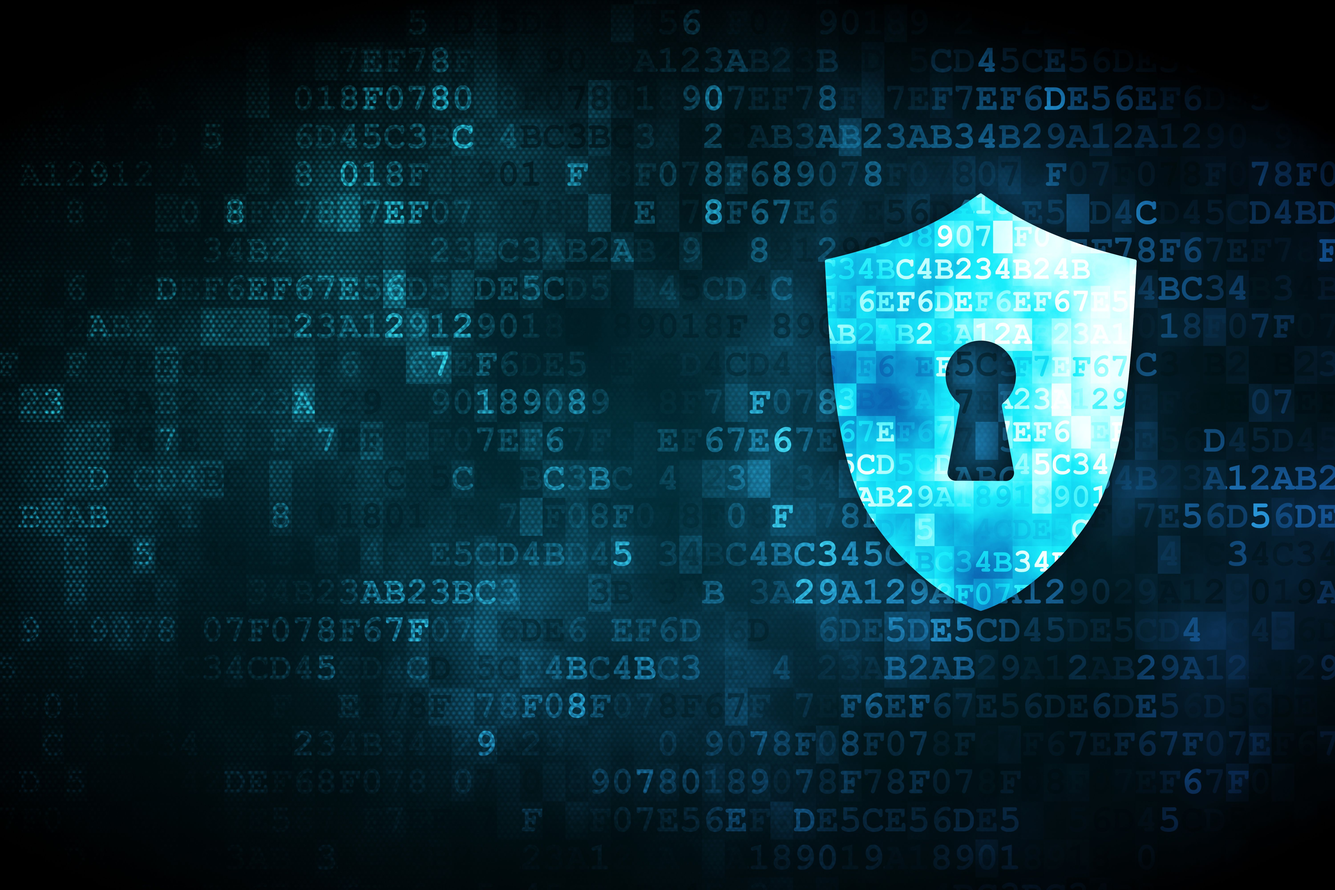
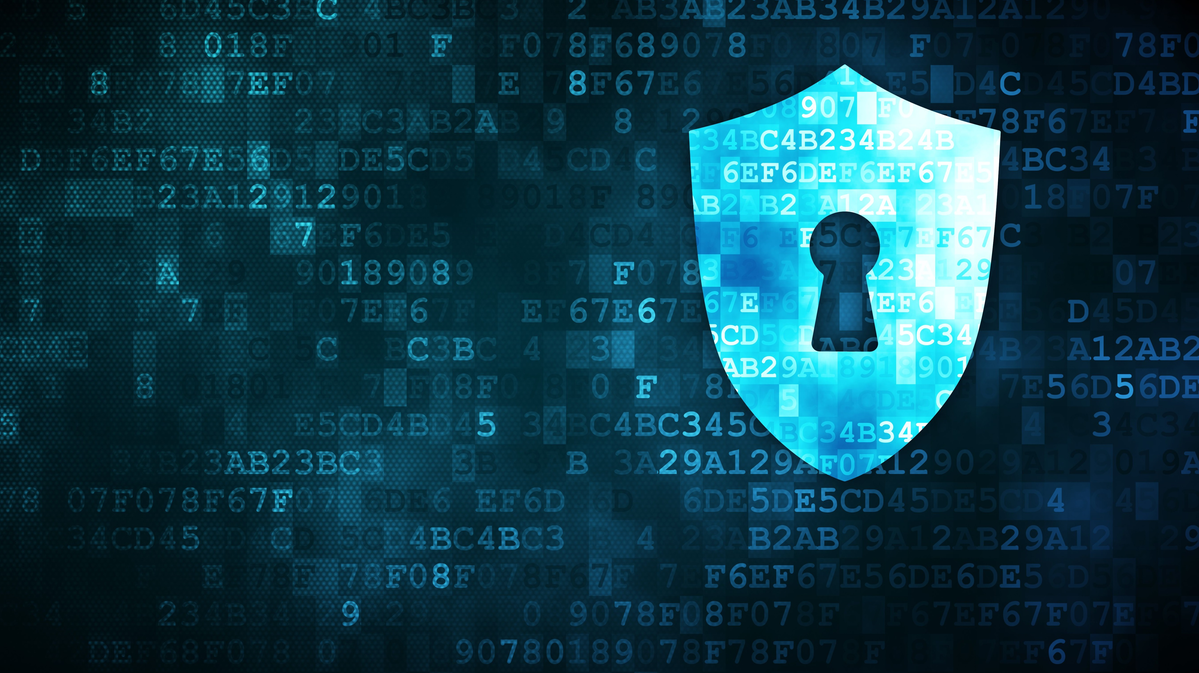
Some optimizations

diff --git a/templates/works.html b/templates/works.html
@@ -66,7 +66,7 @@
                 <div class="row">
                   <div class="col-sm-4">
                     <a href="./work2.html" title="" class="black-image-project-hover">
-                      <img src="./static/assets/images/android.jpg" alt="" class="img-responsive">
+                      <img src="./static/assets/images/android.jpeg" alt="" class="img-responsive">
                     </a>
                     <div class="card-container card-container-lg">
                       <h4>001/006</h4>
